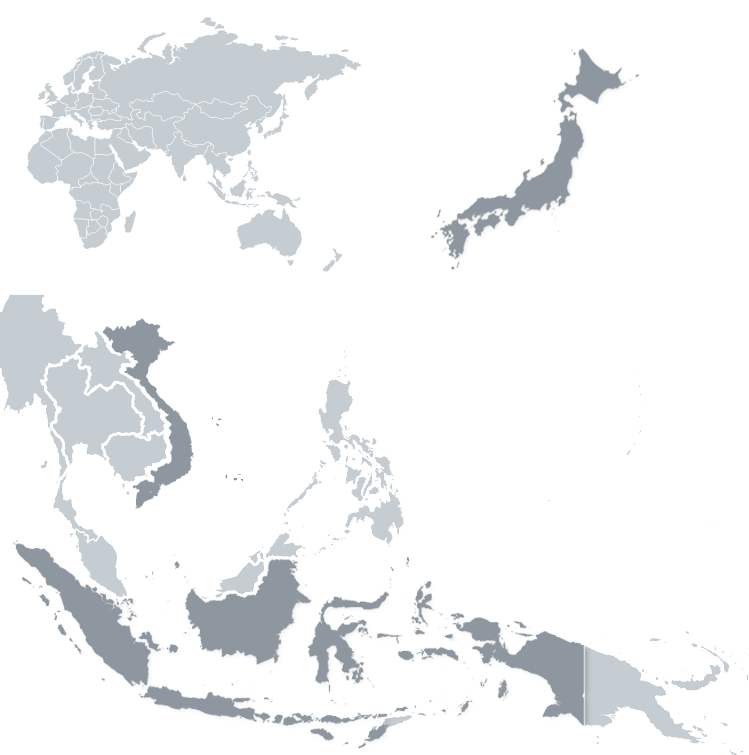
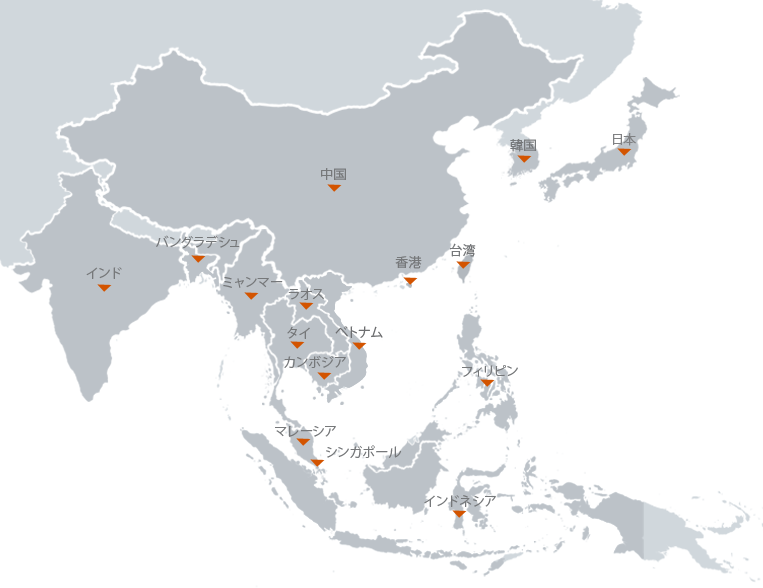
change new design search by location top page

diff --git a/skin/frontend/default/iconic/css/styles.css b/skin/frontend/default/iconic/css/styles.css
@@ -631,7 +631,7 @@ body.job-index-createcv #search-block{
 }
 #newest-jobs ul li span.location-name{
 	padding: 3px 10px;
-	background-color: #d35400;
+	background-color: #E67E22;
 	color: #fff;
 	margin-left: 10px;
 }
@@ -669,62 +669,183 @@ body.job-index-createcv #search-block{
 }
 #tab-content-location{
 	position: relative;
-	background-color: #dae0e6;
+	background-color: #fff;
 }
-#tab-content-location img.map{
+#tab-content-location img.country{
 	display: none;
 	position: absolute;
 }
-#tab-content-location img.map.show{
-	display: block!important;
-}
-#tab-content-location img.map:hover{
+#tab-content-location p{
+	display: inline;
+	padding-bottom: 7px;
+	background: url('../images/country-bg.png') center bottom transparent no-repeat;
+	font-size: 12px;
+	position: absolute;
 	cursor: pointer;
 }
-#tab-content-location img.vn{
-	top: 317px;
-	left: 102px;
+#tab-content-location p.active{
+	font-weight: bold;
+	background: none;
 }
-#tab-content-location img.jp{
-	top: 47px;
-	left: 430px;
+#tab-content-location p.vietnam{
+	top: 325px;
+	left: 334px;
 }
-#tab-content-location img.id{
-	top: 539px;
+#tab-content-location img.vietnam{
+	top: 272px;
+	left: 304px;
+}
+#tab-content-location p.bangladesh{
+	top: 238px;
+	left: 150px;
+}
+#tab-content-location img.bangladesh{
+	top: 246px;
+	left: 182px;
+}
+#tab-content-location p.cambodia{
+	top: 354px;
+	left: 294px;
+}
+#tab-content-location img.cambodia{
+	top: 352px;
+	left: 305px;
+}
+#tab-content-location p.china{
+	top: 150px;
+	left: 300px;
+}
+#tab-content-location img.china{
+	top: 13px;
+	left: 59px;
+}
+#tab-content-location p.hong-kong{
+	top: 261px;
+	left: 397px;
+}
+#tab-content-location img.hong-kong{
+	top: 284px;
+	left: 406px;
+}
+#tab-content-location p.india{
+	top: 263px;
+	left: 70px;
+}
+#tab-content-location img.india{
+	top: 170px;
 	left: 12px;
 }
+#tab-content-location p.indonesia{
+	bottom: 50px;
+	right: 493px;
+}
+#tab-content-location img.indonesia{
+	bottom: 17px;
+	right: 235px;
+}
+#tab-content-location p.japan{
+	top: 135px;
+	right: 244px;
+}
+#tab-content-location img.japan{
+	top: 78px;
+	right: 198px;
+}
+#tab-content-location p.korea{
+	top: 139px;
+	right: 340px;
+}
+#tab-content-location img.korea{
+	top: 139px;
+	right: 320px;
+}
+#tab-content-location p.laos{
+	top: 283px;
+	right: 555px;
+}
+#tab-content-location img.laos{
+	top: 281px;
+	right: 529px;
+}
+#tab-content-location p.malaysia{
+	top: 417px;
+	right: 546px;
+}
+#tab-content-location img.malaysia{
+	top: 420px;
+	right: 426px;
+}
+#tab-content-location p.myanmar{
+	top: 269px;
+	right: 594px;
+}
+#tab-content-location img.myanmar{
+	top: 229px;
+	right: 587px;
+}
+#tab-content-location p.philippines{
+	top: 371px;
+	right: 364px;
+}
+#tab-content-location img.philippines{
+	top: 292px;
+	right: 359px;
+}
+#tab-content-location p.singapore{
+	top: 443px;
+	left: 310px;
+	background-position: left bottom;
+}
+#tab-content-location img.singapore{
+	top: 466px;
+	left: 315px;
+}
+#tab-content-location p.taiwan{
+	top: 245px;
+	left: 453px;
+}
+#tab-content-location img.taiwan{
+	top: 254px;
+	left: 451px;
+}
+#tab-content-location p.thailand{
+	top: 321px;
+	left: 283px;
+}
+#tab-content-location img.thailand{
+	top: 298px;
+	left: 262px;
+}
+#tab-content-location img.country:hover{
+	cursor: pointer;
+}
+
 #tab-content-location .location{
 	position: absolute;
 	height: 100%;
-	width: 160px;
+	width: 175px;
 	top: 0;
 	right: 0;
 	padding: 0 10px;
-	background-color: #fff;
+	background-color: #dae0e6;
 }
 #tab-content-location .location >div{
-	margin-top: 20px;
+	margin-top: 15px;
 }
 #tab-content-location .location h3 a{
 	color: #000;
+	font-size: 14px;
 	font-weight: bold;
+	text-decoration: none;
+	margin-left: 5px;
+}
+#tab-content-location .location h3 a:hover{
+	color: #f58220;
 	text-decoration: underline;
 }
 #tab-content-location .location h3 a span{
 	color: #f58220;
 	font-weight: normal;
-}
-#tab-content-location .location h3{
-	padding-left: 25px;
-}
-#tab-content-location .location .vietnam h3{
-	background: url('../images/country/vietnam.png') left center no-repeat;
-}
-#tab-content-location .location .japan h3{
-	background: url('../images/country/japan.png') left center no-repeat;
-}
-#tab-content-location .location .indonesia h3{
-	background: url('../images/country/indonesia.png') left center no-repeat;
 }
 #tab-content-location .location ul li:before{
 	content: ">";
@@ -737,12 +858,8 @@ body.job-index-createcv #search-block{
 	color: #636466;
 	text-decoration: underline;
 }
-#tab-content-location .location a:hover{
-	color: #4571EB;
-}
 #tab-control .tab{
 	color: #fff;
-	font-weight: bold;
 	background-color: #4571EB;
 	padding: 5px 25px;
 	border: solid 1px transparent;

diff --git a/skin/frontend/default/iconic/css/multiple-select.css b/skin/frontend/default/iconic/css/multiple-select.css
@@ -75,11 +75,13 @@
     right: 0;
     width: 20px;
     height: 25px;
-    background: url('multiple-select.png') right top no-repeat;
+    background: url('../images/multiple-select.png') right top no-repeat;
+    display: none;
 }
 
 .ms-choice > div.open {
-    background: url('multiple-select.png') left top no-repeat;
+    background: url('../images/multiple-select.png') left top no-repeat;
+    display: none;
 }
 
 .ms-drop {
@@ -152,13 +154,13 @@
     -webkit-box-shadow: none;
     -moz-box-shadow: none;
     box-shadow: none;
-    background: #fff url('multiple-select.png') no-repeat 100% -22px;
-    background: url('multiple-select.png') no-repeat 100% -22px, -webkit-gradient(linear, left bottom, left top, color-stop(0.85, white), color-stop(0.99, #eeeeee));
-    background: url('multiple-select.png') no-repeat 100% -22px, -webkit-linear-gradient(center bottom, white 85%, #eeeeee 99%);
-    background: url('multiple-select.png') no-repeat 100% -22px, -moz-linear-gradient(center bottom, white 85%, #eeeeee 99%);
-    background: url('multiple-select.png') no-repeat 100% -22px, -o-linear-gradient(bottom, white 85%, #eeeeee 99%);
-    background: url('multiple-select.png') no-repeat 100% -22px, -ms-linear-gradient(top, #ffffff 85%, #eeeeee 99%);
-    background: url('multiple-select.png') no-repeat 100% -22px, linear-gradient(top, #ffffff 85%, #eeeeee 99%);
+    background: #fff url('../images/multiple-select.png') no-repeat 100% -22px;
+    background: url('../images/multiple-select.png') no-repeat 100% -22px, -webkit-gradient(linear, left bottom, left top, color-stop(0.85, white), color-stop(0.99, #eeeeee));
+    background: url('../images/multiple-select.png') no-repeat 100% -22px, -webkit-linear-gradient(center bottom, white 85%, #eeeeee 99%);
+    background: url('../images/multiple-select.png') no-repeat 100% -22px, -moz-linear-gradient(center bottom, white 85%, #eeeeee 99%);
+    background: url('../images/multiple-select.png') no-repeat 100% -22px, -o-linear-gradient(bottom, white 85%, #eeeeee 99%);
+    background: url('../images/multiple-select.png') no-repeat 100% -22px, -ms-linear-gradient(top, #ffffff 85%, #eeeeee 99%);
+    background: url('../images/multiple-select.png') no-repeat 100% -22px, linear-gradient(top, #ffffff 85%, #eeeeee 99%);
 }
 
 .ms-search, .ms-search input {

diff --git a/js/iconic/jquery.hoverIntent.minified.js b/js/iconic/jquery.hoverIntent.minified.js
@@ -1,0 +1,8 @@
+/*!
+ * hoverIntent r7 // 2013.03.11 // jQuery 1.9.1+
+ * http://cherne.net/brian/resources/jquery.hoverIntent.html
+ *
+ * You may use hoverIntent under the terms of the MIT license.
+ * Copyright 2007, 2013 Brian Cherne
+ */
+(function(e){e.fn.hoverIntent=function(t,n,r){var i={interval:100,sensitivity:7,timeout:0};if(typeof t==="object"){i=e.extend(i,t)}else if(e.isFunction(n)){i=e.extend(i,{over:t,out:n,selector:r})}else{i=e.extend(i,{over:t,out:t,selector:n})}var s,o,u,a;var f=function(e){s=e.pageX;o=e.pageY};var l=function(t,n){n.hoverIntent_t=clearTimeout(n.hoverIntent_t);if(Math.abs(u-s)+Math.abs(a-o)<i.sensitivity){e(n).off("mousemove.hoverIntent",f);n.hoverIntent_s=1;return i.over.apply(n,[t])}else{u=s;a=o;n.hoverIntent_t=setTimeout(function(){l(t,n)},i.interval)}};var c=function(e,t){t.hoverIntent_t=clearTimeout(t.hoverIntent_t);t.hoverIntent_s=0;return i.out.apply(t,[e])};var h=function(t){var n=jQuery.extend({},t);var r=this;if(r.hoverIntent_t){r.hoverIntent_t=clearTimeout(r.hoverIntent_t)}if(t.type=="mouseenter"){u=n.pageX;a=n.pageY;e(r).on("mousemove.hoverIntent",f);if(r.hoverIntent_s!=1){r.hoverIntent_t=setTimeout(function(){l(n,r)},i.interval)}}else{e(r).off("mousemove.hoverIntent",f);if(r.hoverIntent_s==1){r.hoverIntent_t=setTimeout(function(){c(n,r)},i.timeout)}}};return this.on({"mouseenter.hoverIntent":h,"mouseleave.hoverIntent":h},i.selector)}})(jQuery)

diff --git a/skin/frontend/default/iconic/css/utilities.css b/skin/frontend/default/iconic/css/utilities.css
@@ -83,7 +83,7 @@ p{
 }
 
 .blue-tit{
-	border-bottom: solid 2px #4571EB;
+	border-bottom: solid 1px #4571EB;
 	padding-bottom: 10px;
 	font-size: 24px;
 	font-weight: bold;
